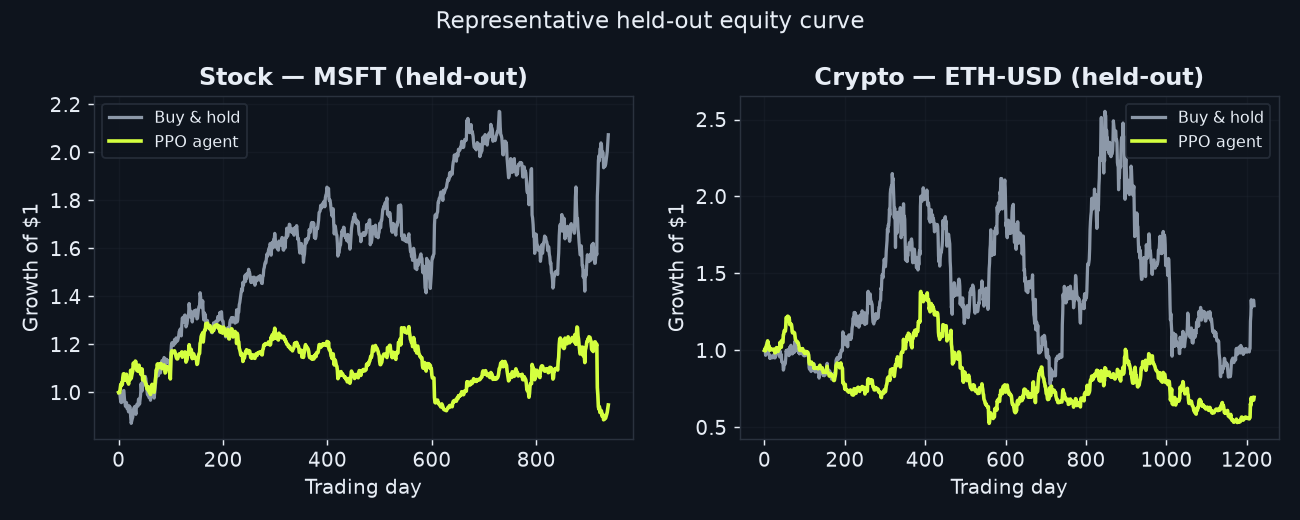
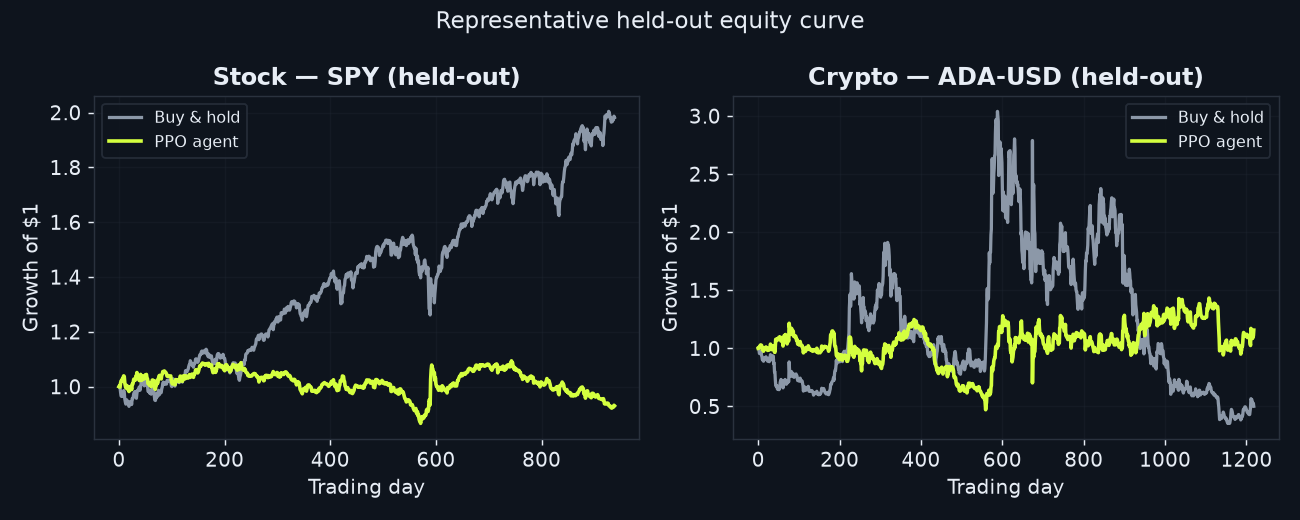
The figures scored the agent on features it never saw
tools/make_figures.py built its held-out basket straight from the CSVs and
skipped the market-index merge that every other real-data tool performs. Four
of the agent's 28 inputs are cross-asset -- rel_return_5, rel_return_20,
market_trend, market_ret_20 -- and with no reference series they do not degrade
into noise; they come back at exactly zero, std 0, for every bar.

Nothing raised an error. The numbers simply disagreed: RESULTS.md carried a
held-out stock return of -14.1% in its baselines table and -4.7% in the
headline and supervised tables, for what the prose called one run. Merging the
index first reconciles them, and the regenerated baselines.json and figures
follow.

tests/test_real_data_pipeline.py pins the rule rather than the digits: a tool
that reads a real OHLCV CSV merges the index before computing features.

Two hand-typed README tables had meanwhile drifted onto numbers no run
produced -- the surrogate table and the ablation's +61.4% -- in the part of the
repository that argues hand-typed numbers cannot be trusted. Both are now
generated blocks (surrogate-brief, ablation-resolution), and the smoke-check
count, which said 77 against a suite grown to 137, is asserted against
tools/smoke_lab.py instead of copied.

diff --git a/tests/test_real_data_pipeline.py b/tests/test_real_data_pipeline.py
@@ -1,0 +1,122 @@
+"""A tool that scores the agent must build the observation it was trained on.
+
+``tools/make_figures.py`` loaded the real CSVs without merging the market index.
+Four of the agent's 28 inputs are cross-asset -- ``rel_return_5``,
+``rel_return_20``, ``market_trend``, ``market_ret_20`` -- and with no reference
+series they do not degrade gracefully: they come back at exactly zero, standard
+deviation zero, for every bar. So the figures and ``docs/assets/baselines.json``
+scored the deployed policy on an observation it had never seen in training,
+while every other real-data tool merged the index and scored it correctly.
+
+Nothing failed. The numbers simply disagreed: RESULTS.md carried a held-out
+stock return of -14.1% in its baselines table and -4.7% in the headline run and
+supervised table, for what the prose called the same run. Two tables, one seed,
+one checkpoint, different answers -- in a document whose argument is that a
+number which has drifted from the run behind it is a false claim.
+
+These tests pin the rule rather than the digits: if a tool reads a real OHLCV
+CSV, it merges the index first.
+"""
+
+from __future__ import annotations
+
+import ast
+import io
+import os
+
+import numpy as np
+import pytest
+
+REPO = os.path.dirname(os.path.dirname(os.path.abspath(__file__)))
+TOOLS = os.path.join(REPO, "tools")
+DATA = os.path.join(REPO, "data", "raw")
+
+# The four inputs that have no value without a reference series.
+CROSS_ASSET = ("rel_return_5", "rel_return_20", "market_trend", "market_ret_20")
+
+
+def _tool_sources():
+    for name in sorted(os.listdir(TOOLS)):
+        if not name.endswith(".py") or name.startswith("_"):
+            continue
+        with io.open(os.path.join(TOOLS, name), encoding="utf-8") as fh:
+            yield name, fh.read()
+
+
+def _calls_named(tree: ast.AST, wanted: str) -> bool:
+    """Is ``wanted`` called anywhere in this module?"""
+    for node in ast.walk(tree):
+        if not isinstance(node, ast.Call):
+            continue
+        fn = node.func
+        name = (fn.id if isinstance(fn, ast.Name)
+                else fn.attr if isinstance(fn, ast.Attribute) else None)
+        if name == wanted:
+            return True
+    return False
+
+
+REAL_DATA_TOOLS = [
+    (name, src) for name, src in _tool_sources()
+    if _calls_named(ast.parse(src), "load_ohlcv_csv")
+]
+
+
+def test_the_scan_finds_the_real_data_tools():
+    """Guard the guard: an empty list would make every case below vacuous."""
+    assert len(REAL_DATA_TOOLS) >= 5, [n for n, _ in REAL_DATA_TOOLS]
+
+
+@pytest.mark.parametrize("name,src", REAL_DATA_TOOLS,
+                         ids=[n for n, _ in REAL_DATA_TOOLS])
+def test_a_tool_reading_real_csvs_attaches_the_market_index(name, src):
+    """Otherwise it feeds the policy four dead inputs and reports the result."""
+    tree = ast.parse(src)
+    if not _calls_named(tree, "prepare_market_data"):
+        pytest.skip(f"{name} loads CSVs but does not build features from them")
+    assert _calls_named(tree, "attach_market_index"), (
+        f"{name} builds features from a real CSV without merging the market "
+        f"index; the cross-asset features {CROSS_ASSET} will be identically "
+        f"zero and the agent will be scored on an observation it never trained "
+        f"on. Wrap the frame: attach_market_index(load_ohlcv_csv(path), "
+        f"data_dir, market)."
+    )
+
+
+@pytest.mark.skipif(not os.path.isdir(os.path.join(DATA, "stock")),
+                    reason="real basket not fetched; run tools/fetch_data.py")
+def test_omitting_the_index_flatlines_exactly_the_cross_asset_features():
+    """The reason the rule above exists, measured rather than asserted.
+
+    If this ever fails because the columns are merely *different* rather than
+    dead, the static check is still right but its rationale has changed and the
+    docstring above needs rewriting.
+    """
+    from rl_trader.data.data_loader import (
+        attach_market_index, load_ohlcv_csv, prepare_market_data)
+
+    path = os.path.join(DATA, "stock", "AAPL.csv")
+    if not os.path.exists(path):
+        pytest.skip("AAPL.csv not in the fetched basket")
+
+    bare = prepare_market_data(load_ohlcv_csv(path), market="stock",
+                               train_frac=0.6, val_frac=0.0)["test"]
+    merged = prepare_market_data(
+        attach_market_index(load_ohlcv_csv(path), DATA, "stock"),
+        market="stock", train_frac=0.6, val_frac=0.0)["test"]
+
+    names = list(getattr(merged, "feature_names", None) or [])
+    assert names, "feature names are needed to identify the cross-asset columns"
+    assert bare.features.shape == merged.features.shape, (
+        "the observation must keep its width either way -- that is precisely "
+        "why the omission was silent rather than a shape error")
+
+    moved = {names[i] for i in range(len(names))
+             if np.abs(bare.features[:, i] - merged.features[:, i]).max() > 1e-9}
+    assert moved == set(CROSS_ASSET), (
+        f"expected exactly the cross-asset inputs to change, got {sorted(moved)}")
+
+    for feature in CROSS_ASSET:
+        col = bare.features[:, names.index(feature)]
+        assert col.std() == 0.0 and np.all(col == 0.0), (
+            f"{feature} was expected to be identically zero without an index")

diff --git a/tools/sync_docs.py b/tools/sync_docs.py
@@ -267,6 +267,72 @@ def _surrogate_arm(name: str) -> Optional[str]:
     return "\n".join(rows)
 
 
+def surrogate_brief() -> Optional[str]:
+    """Both arms in one table, for the README, which argues in a single pass.
+
+    RESULTS.md splits the control from the real arm because it argues at length
+    between them. The README does not, and so carried this as a hand-typed table
+    -- which then drifted onto a third set of numbers agreeing with neither the
+    artifacts nor RESULTS.md, in the section of the repository that explains why
+    hand-typed numbers must not be trusted.
+    """
+    rows = ["| Arm | Market | Structured | Surrogate | Difference | p |",
+            "|---|---|---:|---:|---:|---:|"]
+    seen = False
+    for name, label in (("synthetic", "Synthetic (control)"), ("real", "Real")):
+        art = _asset(f"surrogate_{name}.json")
+        if not art:
+            continue
+        for market in sorted(art):
+            r = art[market]
+            seen = True
+            p_ = r["p"]
+            diff = pct(r["diff"], 1)
+            rows.append(
+                f"| {label} | {market} | {pct(r['edge_structured'], 1)} | "
+                f"{pct(r['edge_surrogate'], 1)} | "
+                f"{f'**{diff}**' if p_ < 0.05 else diff} | "
+                f"{f'**{p_:.4f}**' if p_ < 0.05 else f'{p_:.4f}'} |")
+    return "\n".join(rows) if seen else None
+
+
+def ablation_resolution() -> Optional[str]:
+    """The ablation's paired difference beside the floor its design cannot beat.
+
+    The README quoted this to show that "decisive" and "significant" come apart
+    at five pairs. It is exactly the kind of claim that has to be recomputed
+    rather than remembered: the figure went stale at +61.4% while the rebuilt
+    artifact said +72.8%, leaving a paragraph about statistical care carrying a
+    number no run had produced.
+    """
+    art = _asset("ablation_multiseed.json")
+    if not art:
+        return None
+    try:
+        import numpy as np
+        from rl_trader.evaluation.statistics import (
+            bootstrap_ci, paired_permutation_test)
+    except ImportError:            # pragma: no cover - research extras absent
+        return None
+
+    markets = (art.get("summary") or art).get("markets") or {}
+    rows: List[str] = []
+    for market, label in (("stock", "Stock"), ("crypto", "Crypto")):
+        arms = markets.get(market)
+        if not arms:
+            continue
+        dom = np.asarray(arms["domain"]["oos_per_seed"], dtype=float)
+        sing = np.asarray(arms["single"]["oos_per_seed"], dtype=float)
+        est = bootstrap_ci(dom - sing)
+        obs, p_ = paired_permutation_test(dom, sing)
+        floor = 2.0 / (2 ** len(dom))
+        rows.append(
+            f"- **{label}** — held-out difference **{pct(obs)}**, 95% CI "
+            f"`[{pct(est.low, 0)}, {pct(est.high, 0)}]`, yet **p = {p_:.4f}** "
+            f"against a floor of {floor:.4f} at {len(dom)} pairs.")
+    return "\n".join(rows) if rows else None
+
+
 def surrogate_control() -> Optional[str]:
     return _surrogate_arm("synthetic")
 
@@ -648,6 +714,8 @@ BLOCKS: Dict[str, Callable[[], Optional[str]]] = {
     "headline-run": headline_run,
     "ablation-table": ablation_table,
     "surrogate-control": surrogate_control,
+    "surrogate-brief": surrogate_brief,
+    "ablation-resolution": ablation_resolution,
     "surrogate-real": surrogate_real,
     "baselines-table": baselines_table,
     "portfolio-table": portfolio_table,

diff --git a/tools/make_figures.py b/tools/make_figures.py
@@ -25,7 +25,8 @@ matplotlib.use("Agg")
 import matplotlib.pyplot as plt  # noqa: E402
 
 from rl_trader.config.training_config import crypto_config, stock_config  # noqa: E402
-from rl_trader.data.data_loader import load_ohlcv_csv, prepare_market_data  # noqa: E402
+from rl_trader.data.data_loader import (  # noqa: E402
+    attach_market_index, load_ohlcv_csv, prepare_market_data)
 from rl_trader.envs import make_env  # noqa: E402
 from rl_trader.evaluation.baselines import evaluate_baselines  # noqa: E402
 from rl_trader.evaluation.evaluate_agent import backtest  # noqa: E402
@@ -55,10 +56,22 @@ def _cfg(market):
 
 
 def _basket(market, data_dir="data/raw"):
+    """Held-out splits for every ticker, built the way the agent was trained.
+
+    The market index has to be merged in before the features are computed. Four
+    of the agent's 28 inputs are cross-asset (rel_return_5/20, market_trend,
+    market_ret_20) and without a reference series they are not merely noisy --
+    they come back at exactly zero, std 0. This function omitted the merge while
+    every other real-data tool performed it, so the figures and baselines.json
+    scored the policy on an observation it had never trained against, and
+    RESULTS.md carried two different held-out returns for the same run: -14.1%
+    here against -4.7% from the headline and supervised tables.
+    """
     out = {}
     for path in sorted(glob.glob(os.path.join(data_dir, market, "*.csv"))):
         ticker = os.path.splitext(os.path.basename(path))[0]
-        splits = prepare_market_data(load_ohlcv_csv(path), market=market,
+        df = attach_market_index(load_ohlcv_csv(path), data_dir, market)
+        splits = prepare_market_data(df, market=market,
                                      train_frac=0.6, val_frac=0.0)
         if len(splits["test"]) > 60:
             out[ticker] = splits

diff --git a/tests/test_docs_sync.py b/tests/test_docs_sync.py
@@ -142,3 +142,30 @@ def test_the_crypto_interval_is_not_described_as_straddling_zero(results: str):
     excludes_zero = sig["crypto"]["ci_low"] > 0 or sig["crypto"]["ci_high"] < 0
     if excludes_zero:
         assert "straddles zero" not in results
+
+
+def test_the_stated_smoke_check_count_matches_the_smoke_suite():
+    """README quoted 77 browser checks while the suite had grown to 137.
+
+    Harmless on its own -- it understated the work -- but it is the same defect
+    as every other number here: a figure copied once and then left behind by the
+    thing it describes. Counting it is cheap, so nothing is gained by trusting
+    the copy.
+    """
+    with io.open(os.path.join(REPO, "tools", "smoke_lab.py"),
+                 encoding="utf-8") as fh:
+        smoke = fh.read()
+    # Call sites, not the definition: `def check(` is the helper itself.
+    calls = len(re.findall(r"(?<![\w.])check\(", smoke))
+    helper = len(re.findall(r"def\s+check\w*\(", smoke))
+    actual = calls - helper
+
+    readme = _read("README.md")
+    claims = [int(n) for n in re.findall(r"(\d+)\s+(?:headless-)?browser checks",
+                                         readme)]
+    assert claims, "README no longer states how many smoke checks there are"
+    for claimed in claims:
+        assert claimed == actual, (
+            f"README claims {claimed} browser checks; tools/smoke_lab.py has "
+            f"{actual}")
+

diff --git a/README.md b/README.md
@@ -315,7 +315,7 @@ tests/               # pytest suite (envs, agent, features, reward, recurrent, s
                      #   normalization, portfolio, snapshot, lab backend, HTTP API)
 tools/
 ├── fetch_data.py        # download a real OHLCV basket; --end pins a snapshot
-├── smoke_lab.py         # 77 headless-browser checks against the live lab
+├── smoke_lab.py         # 137 headless-browser checks against the live lab
 ├── build_site_data.py   # train + backtest -> docs/results.js for the dashboard
 ├── ablation.py          # domain-randomization overfitting study
 ├── baseline_report.py   # agent vs. buy-&-hold / random / momentum
@@ -569,12 +569,14 @@ volatility clustering are gone. Train the same recipe on both.
 **The positive control is the half that matters**, and it is presented first,
 because a null from a test with unproven power says nothing:
 
+<!-- BEGIN GENERATED: surrogate-brief -->
 | Arm | Market | Structured | Surrogate | Difference | p |
 |---|---|---:|---:|---:|---:|
-| Synthetic (control) | stock | +3.4% | −42.7% | **+46.1%** | 0.0006 |
-| Synthetic (control) | crypto | +99.0% | −65.3% | **+164.3%** | 0.0032 |
-| Real | stock | −297.4% | −196.9% | −100.5% | 0.498 |
-| Real | crypto | −5.8% | −1309.2% | +1303.5% | 0.156 |
+| Synthetic (control) | crypto | +68.6% | −55.7% | **+124.3%** | **0.0075** |
+| Synthetic (control) | stock | +1.8% | −47.7% | **+49.5%** | **0.0026** |
+| Real | crypto | −20.6% | −977.0% | +956.4% | 0.1225 |
+| Real | stock | −253.4% | −136.3% | −117.1% | 0.4150 |
+<!-- END GENERATED: surrogate-brief -->
 
 On synthetic data with a planted AR(1) signal the agent shows a clear edge and
 loses it under shuffling, in both markets. That licenses reading the real arm:
@@ -583,15 +585,20 @@ random order.** On this evidence the flat performance is the market's, not the
 agent's — which is what weak-form efficiency predicts, arrived at from the
 inside.
 
-The crypto real row is instructive on its own: a +1303-point difference that is
-*not* significant, because the surrogate arm's interval runs from −2660% to
-−146%. A large point estimate with no power is not a result, and the panel says
-so rather than quoting the headline number.
+The crypto real row is instructive on its own: a large positive point estimate
+that is *not* significant, because the surrogate arm's interval is enormous —
+reshuffling fat-tailed crypto returns occasionally creates paths on which a
+leveraged agent loses catastrophically, and those dominate the mean. A large
+point estimate with no power is not a result, and the panel says so rather than
+quoting the headline number.
 
-These artifacts predate per-arm value recording, so they carry summary
-statistics only. Rather than re-deriving a p-value from a mean, the API declares
-them non-re-analysable and `tools/surrogate_test.py` now records the per-arm
-values and `n_pairs` so future regenerations can be re-analysed live.
+`tools/surrogate_test.py` records the per-arm values and `n_pairs`, so every row
+above is re-analysable live rather than being a stored summary a p-value would
+have to be re-derived from. That is what lets the median-based variant in
+[RESULTS §6](RESULTS.md) run without retraining anything: same paired null, same
+pairs, a statistic chosen to be immune to the heavy tails. An artifact that
+carries only summary statistics is still marked non-re-analysable by the API
+instead of being silently re-analysed.
 
 ### Does it beat a coin flip?
 
@@ -720,7 +727,7 @@ is the whole argument for measuring instead of looking.
 The project reports two numbers that live on **different axes**, and pairing on
 the wrong one silently changes the claim:
 
-- **across training seeds** (n = 5) — "how repeatable is this?" → bootstrap CI
+- **across training seeds** (n = 10) — "how repeatable is this?" → bootstrap CI
 - **across held-out tickers** (n = 10 / 6) — "is the cross-sectional edge real?"
   → paired permutation test, which is where the published p-value comes from
 
@@ -730,9 +737,14 @@ assignments, so **p can never fall below `2 / 2**n`** — 0.0625 at n = 5, and
 design cannot reach significance at 0.05 whatever the effect size. The lab
 reports this resolution floor beside every test, because *"underpowered by
 construction"* and *"no effect"* are different statements. It shows up concretely
-in the ablation: the held-out difference between the two agents is **+61.4% with
-a 95% CI of [+37%, +82%]** — decisive — yet **p = 0.063**, because five pairs
-cannot resolve further.
+in the ablation, where the held-out difference between the two agents is
+decisive and the p-value still cannot clear the floor, because five pairs
+cannot resolve further:
+
+<!-- BEGIN GENERATED: ablation-resolution -->
+- **Stock** — held-out difference **+72.8%**, 95% CI `[+46%, +95%]`, yet **p = 0.0630** against a floor of 0.0625 at 5 pairs.
+- **Crypto** — held-out difference **+180.1%**, 95% CI `[+125%, +237%]`, yet **p = 0.0630** against a floor of 0.0625 at 5 pairs.
+<!-- END GENERATED: ablation-resolution -->
 
 ## API
 
@@ -828,7 +840,7 @@ all**, and the lab layers live experiments on top when `window.RL_API` is set.
 ```bash
 python tools/build_site_data.py --real --timesteps 200000   # regenerate docs/results.js
 python server/app.py                                        # the experiment API
-python tools/smoke_lab.py                                   # 77 browser checks against both
+python tools/smoke_lab.py                                   # 137 browser checks against both
 ```
 
 `tools/smoke_lab.py` drives the real page in headless Chromium. Its most important

diff --git a/RESULTS.md b/RESULTS.md
@@ -177,7 +177,7 @@ Seed 42, 200,000 timesteps, test window ending 2026-08-28:
 
 | Strategy | Return | Sharpe | Max DD |
 |---|---:|---:|---:|
-| **PPO agent** | −14.1% | −0.22 | 37.9% |
+| **PPO agent** | −4.7% | −0.09 | 35.0% |
 | Buy & hold | +239.3% | +1.12 | 26.9% |
 | MA crossover | +74.5% | +0.78 | 23.4% |
 | Flat (cash) | +0.0% | +0.00 | 0.0% |
@@ -187,7 +187,7 @@ Seed 42, 200,000 timesteps, test window ending 2026-08-28:
 
 | Strategy | Return | Sharpe | Max DD |
 |---|---:|---:|---:|
-| **PPO agent** | +1.4% | +0.09 | 70.5% |
+| **PPO agent** | +38.7% | +0.21 | 66.6% |
 | Buy & hold | +33.2% | +0.38 | 73.7% |
 | MA crossover | +8.3% | +0.24 | 59.9% |
 | Flat (cash) | +0.0% | +0.00 | 0.0% |
